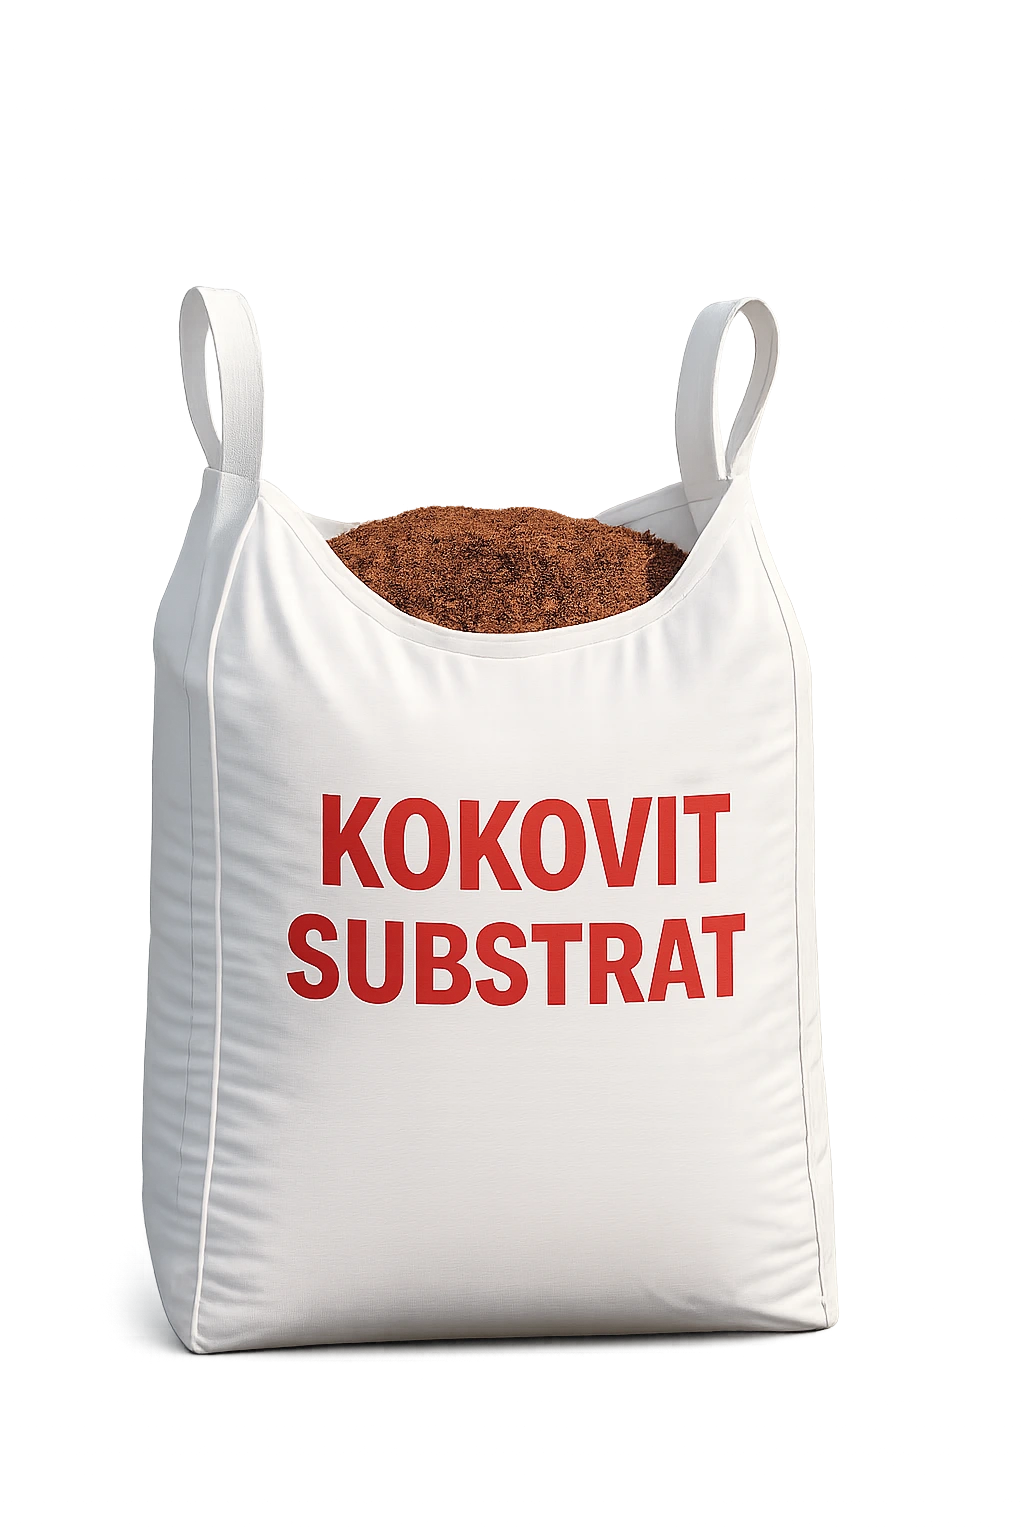
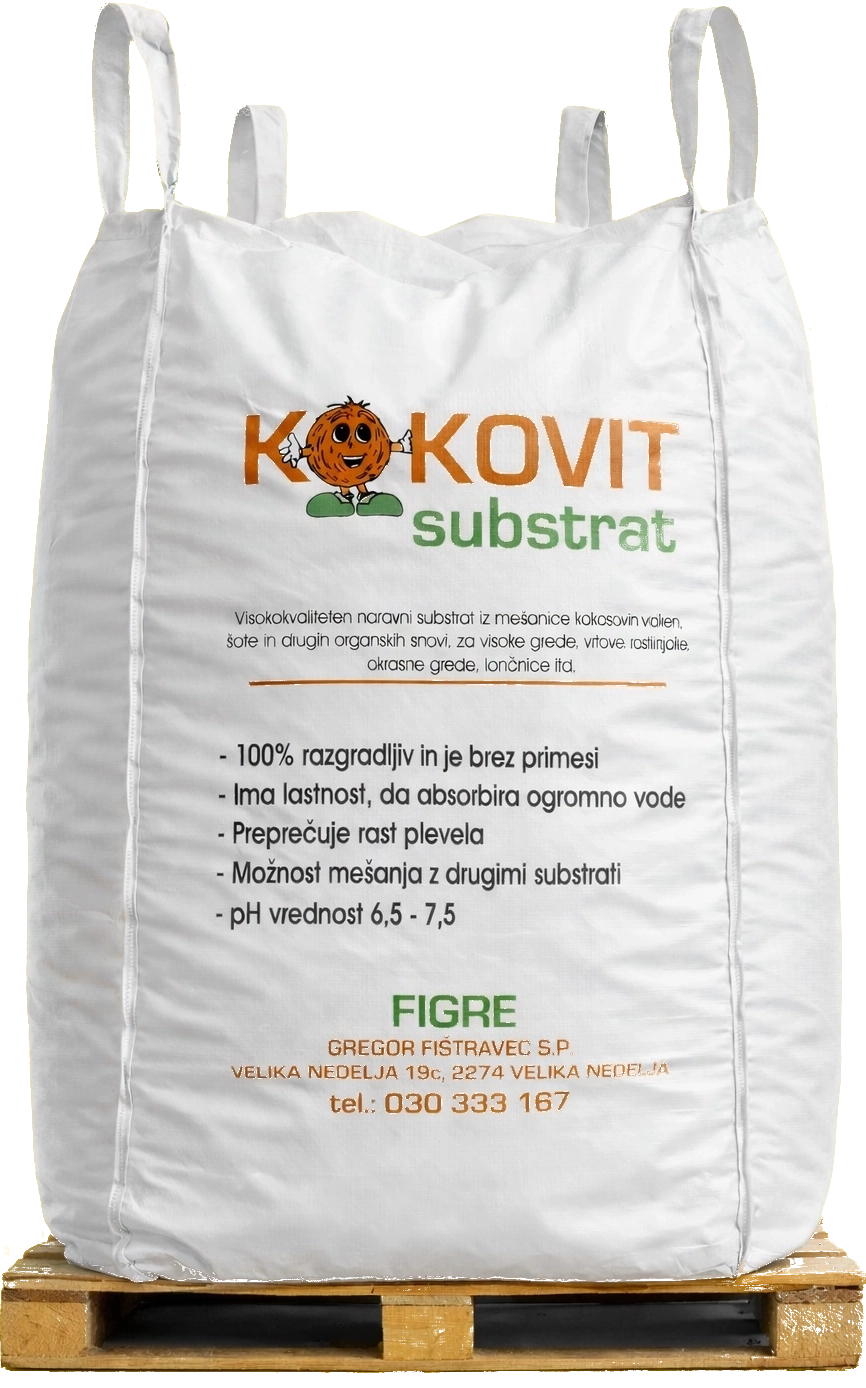
nove slike big bag in 45l na herotu

diff --git a/app/Components/Hero.tsx b/app/Components/Hero.tsx
@@ -21,7 +21,7 @@ export default function Hero() {
                     <p className="text-[#F5F5DC] text-2xl sm:text-2xl font-semibold text-center mt-4 md:mt-6 underline">70l Kokovit substrat</p>
                 </div>
                 <div className="w-full md:w-[30%] cursor-pointer transition-all duration-300 hover:scale-105 hover:-translate-y-2 animate-slide-up [animation-delay:300ms] mt-6" onClick={() => openNewPage(router, "/izdelki/bigbag")}>
-                    <img src="381.webp" alt="Big Bag" className="w-full h-[350px] sm:h-[400px] md:h-[450px] lg:h-[500px] object-contain" />
+                    <img src="bigbag.webp" alt="Big Bag" className="w-full h-[350px] sm:h-[400px] md:h-[450px] lg:h-[500px] object-contain" />
                     <p className="text-[#F5F5DC] text-2xl sm:text-2xl font-semibold text-center mt-4 md:mt-6 underline">Big Bag Kokovit substrat</p>
                 </div>
             </div>
